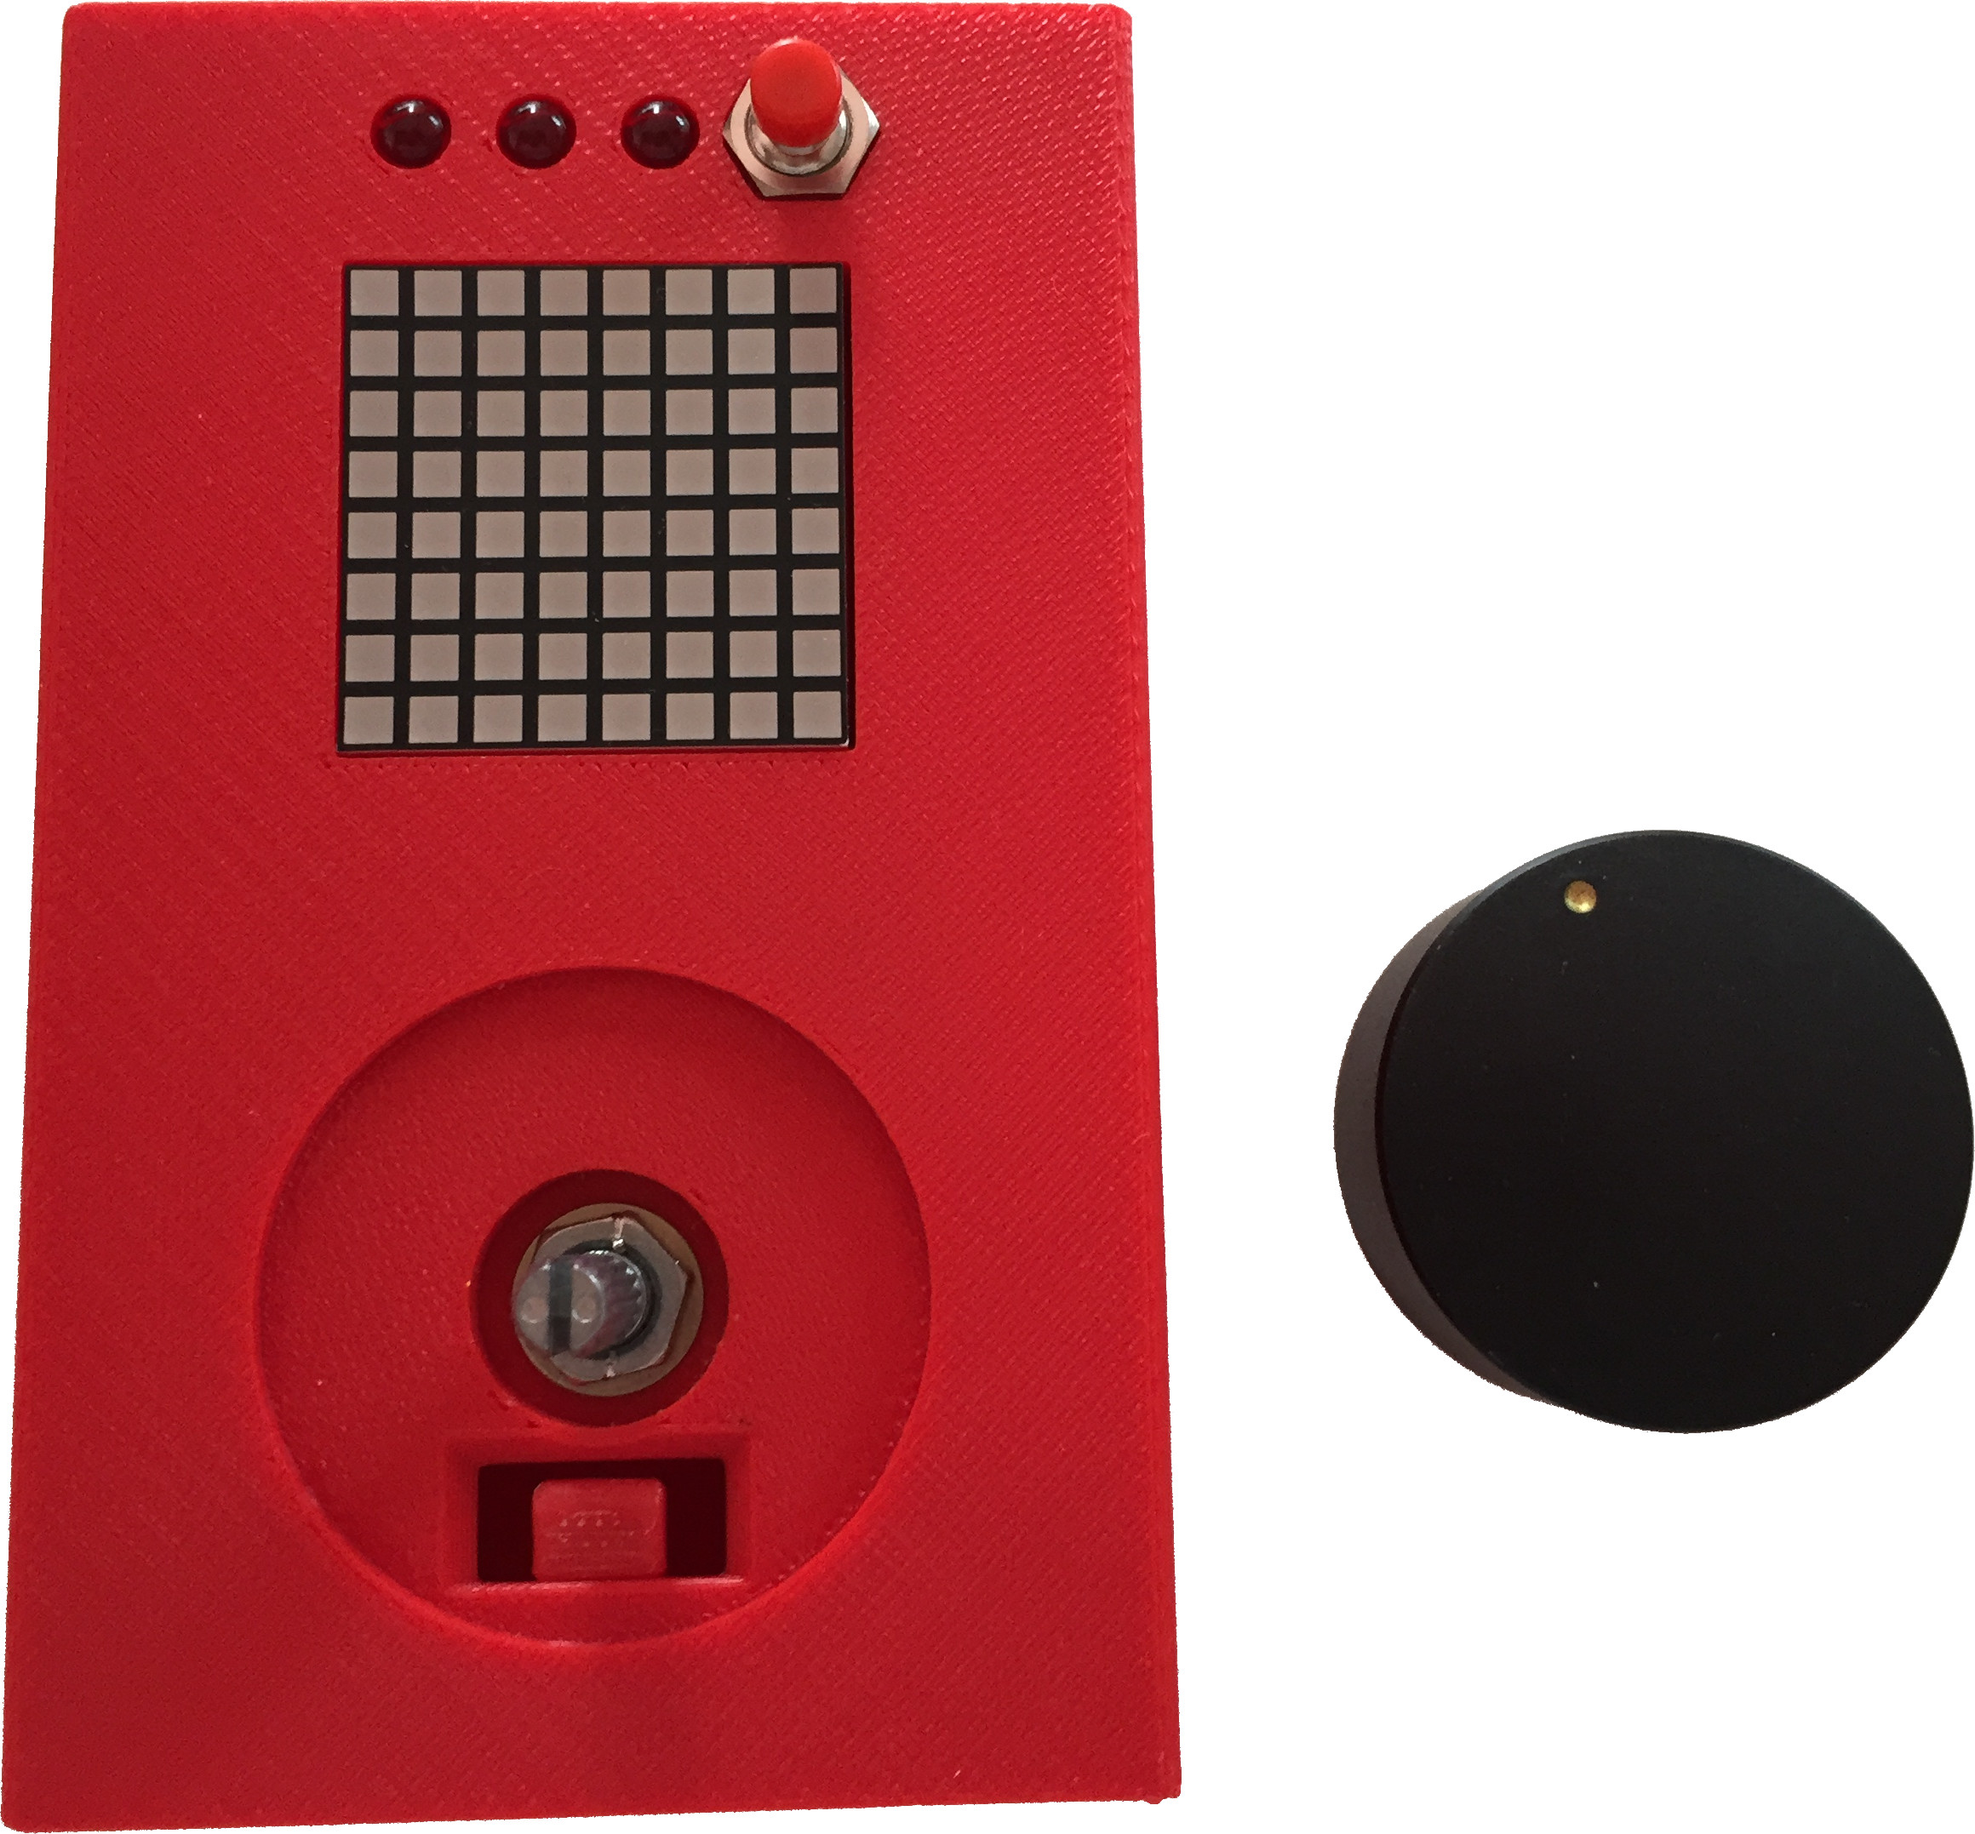
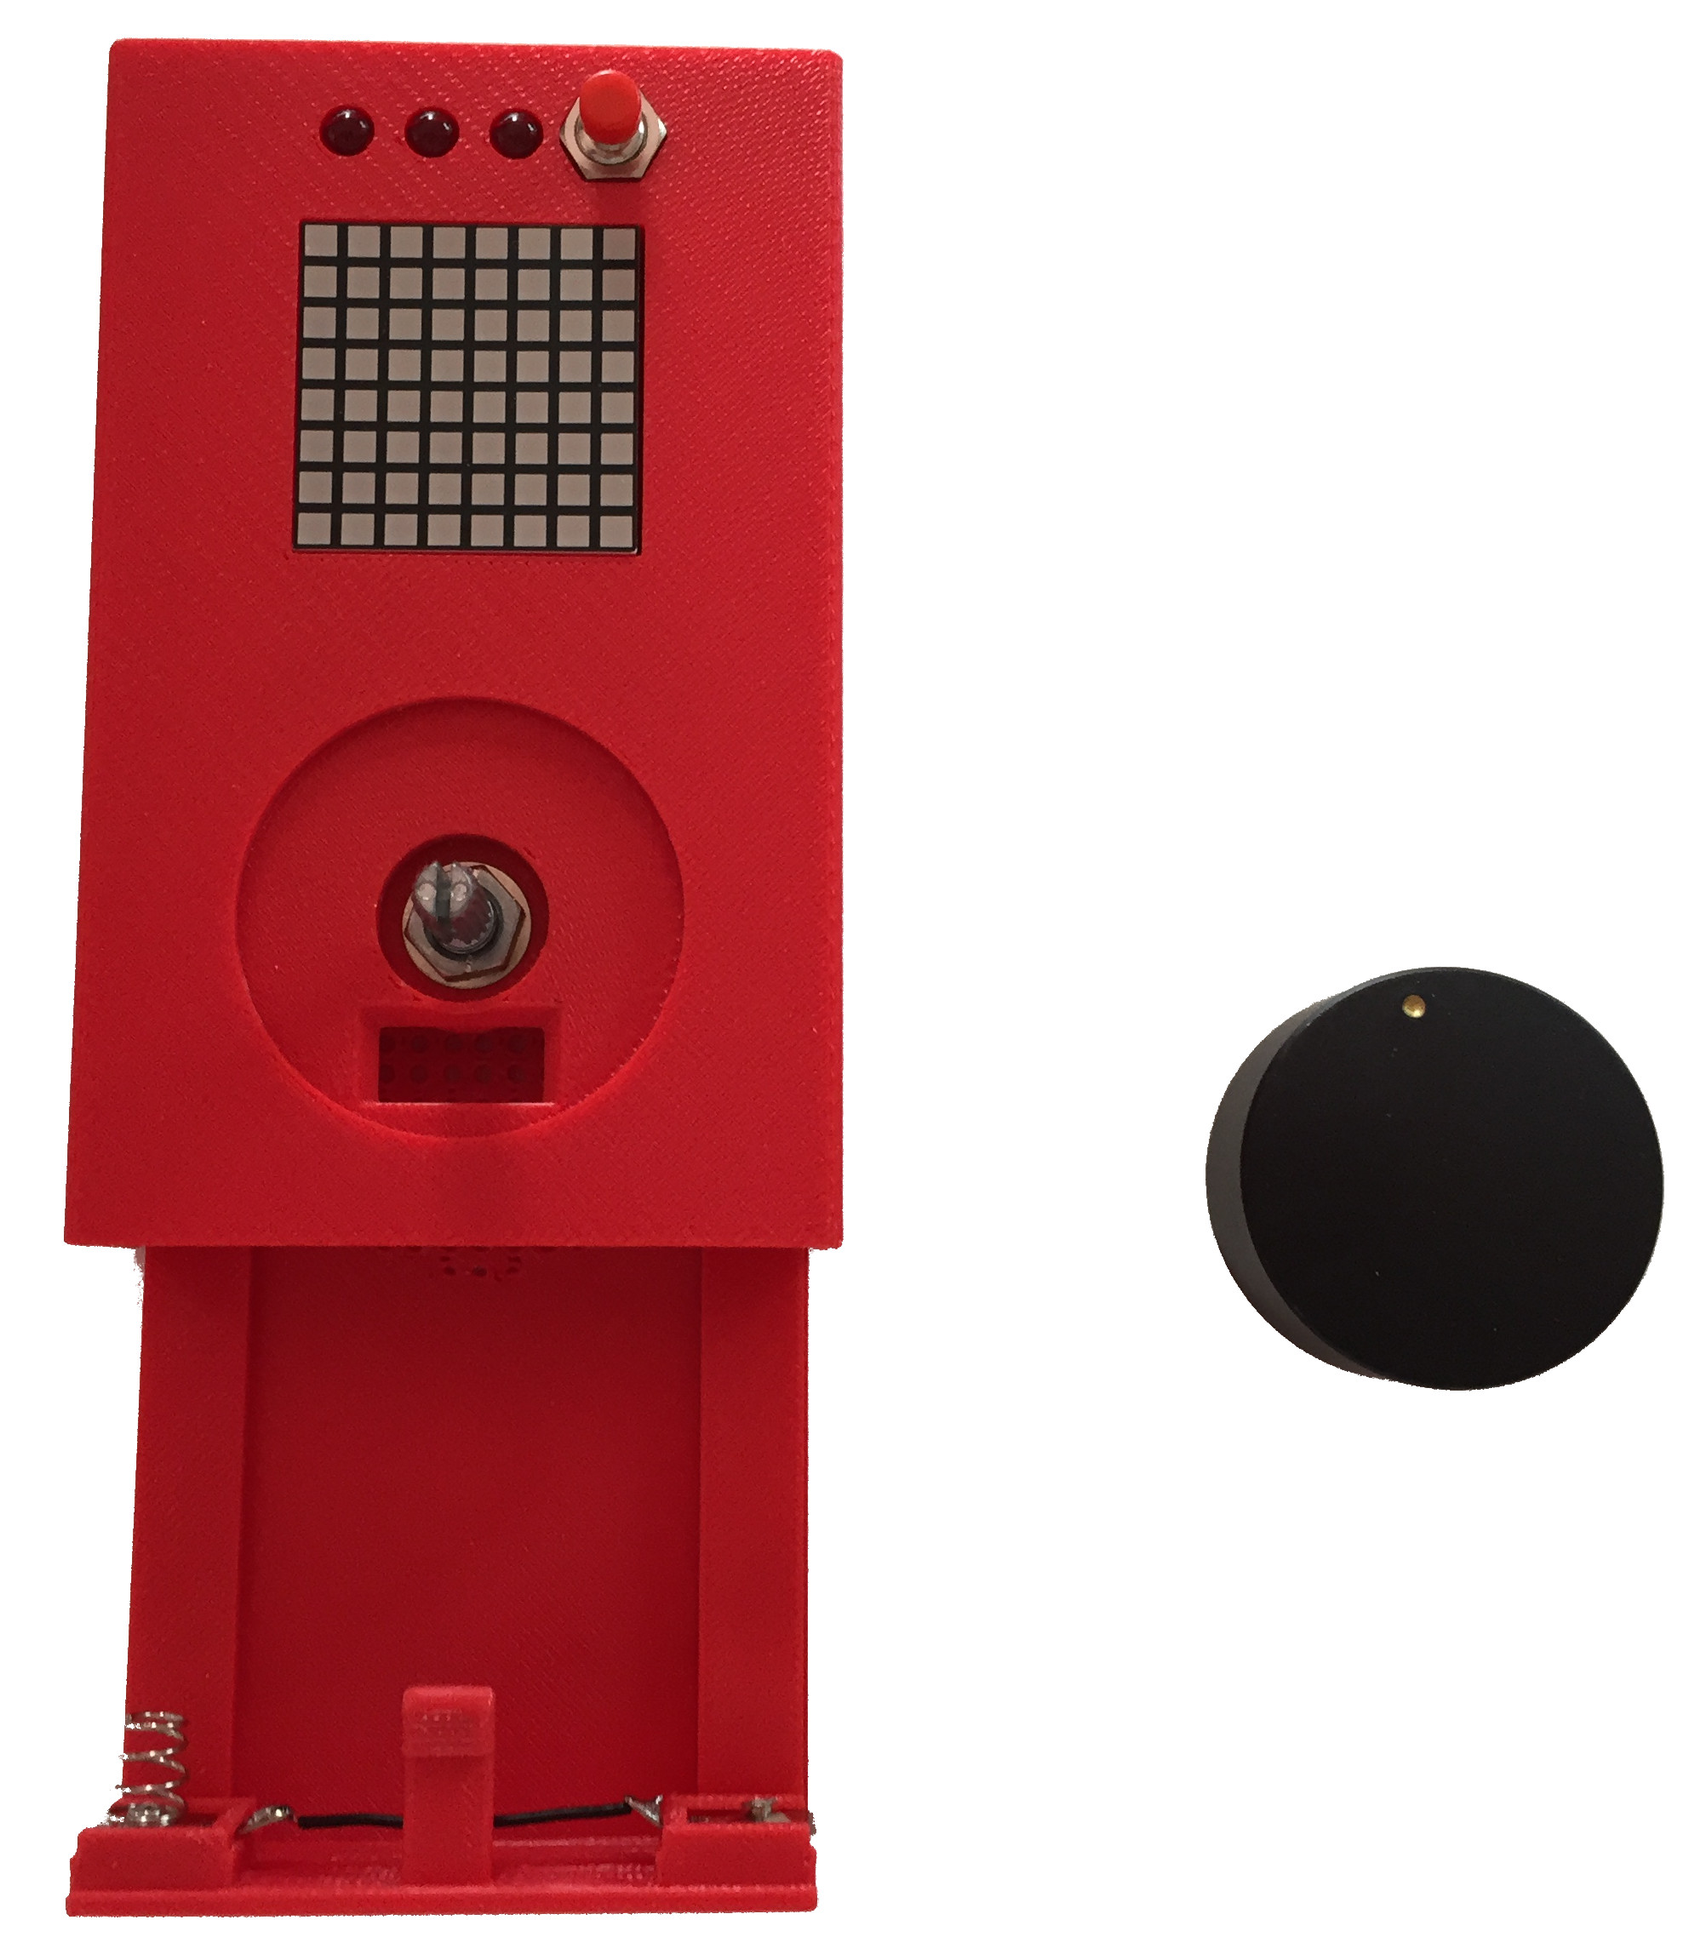
wip documentation and pages

diff --git a/_includes/gallery_show.html b/_includes/gallery_show.html
@@ -1,1 +1,1 @@
-{% for image in include.images %}<a href="{{ relative }}{{ page.imgfolder }}/{{ image.name }}" data-lightbox="{{ include.group }}" title="{{ image.text }}"><img src="{{ relative }}{{ page.imgfolder }}/{{ image.thumb }}" title="{{ image.text }}" {% if include.width == nil %}width="130px"{% else %}width="{{ include.width }}px"{% endif %} style="border: 0 0 0 0; margin: 10px 10px 10px 10px;"></a>{% endfor %}
+{% for image in include.images %}<a href="{{ relative }}{{ page.imgfolder }}/{{ image.name }}" data-lightbox="{{ include.group }}" title="{{ image.text }}"><img src="{{ relative }}{{ page.imgfolder }}/{{ image.thumb }}" title="{{ image.text }}" {% if include.width != nil %}width="{{ include.width }}px"{% endif %} {% if include.height != nil %}height="{{ include.height }}px"{% endif %} style="border: 0 0 0 0; margin: 10px 10px 10px 10px;"></a>{% endfor %}

diff --git a/doc/case.md b/doc/case.md
@@ -22,6 +22,37 @@ photos:
   - name: photo_case2.jpg
     thumb: thumb_case2.jpg
     text: TeleBall 3D Printed Case and Lid - Back
+readydevice:
+  - name: photo1.jpg
+    thumb: thumb1.jpg
+    text: TeleBall Front View
+  - name: photo2.jpg
+    thumb: thumb2.jpg
+    text: TeleBall Side View
+  - name: photo3.jpg
+    thumb: thumb3.jpg
+    text: TeleBall Top View
+  - name: photo4.jpg
+    thumb: thumb4.jpg
+    text: TeleBall Rear View
+  - name: photo5.jpg
+    thumb: thumb5.jpg
+    text: TeleBall Bottom View        
+  - name: photo6.jpg
+    thumb: thumb6.jpg
+    text: TeleBall Disassembly 1
+  - name: photo7.jpg
+    thumb: thumb7.jpg
+    text: TeleBall Disassembly 2
+  - name: photo8.jpg
+    thumb: thumb8.jpg
+    text: TeleBall Disassembly 3
+  - name: photo9.jpg
+    thumb: thumb9.jpg
+    text: TeleBall Disassembly 4
+  - name: photo10.jpg
+    thumb: thumb10.jpg
+    text: TeleBall Disassembly 5
 ---
 
 {% include gallery_init.html %}
@@ -36,13 +67,16 @@ Designing the Case: CAD
 We used it to design the TeleBall Case. The following gallery is showing you the
 case and the lid 3D rendered by FreeCad.
 
-{% include gallery_show.html images=page.cad_images group=1 %}
+{% include gallery_show.html images=page.cad_images width=130 group=1 %}
 
 The mechanism for keeping the case closed stable can be best understood when you
 have a look at the rightmost image (click to zoom): The lever shown there is
 clicking into place when being moved over the hole shown at the leftmost image
 while closing.
 
+Toggle *Thingiview* on [Thingiverse](http://www.thingiverse.com/thing:621294)
+to get a realtime interactive 3D view of the case and the lid: Click the blue
+"photos", then click on *Thingiview* and then use your mouse to zoom and rotate.
 
 Manufacturing the Case: 3D Printing
 -----------------------------------
@@ -54,22 +88,23 @@ are used to 3D print the TeleBall device consisting of the case and the lid.
     case_body_v2.stl
     case_lid_v2.stl
 
-Most online 3D printing shops are accepting `.cmb.gz` files, this is why added this
-package already for your convenience; it contains both, the case and the lid.
+Some online 3D printing shops are accepting convenient packaged `.cmb.gz` files,
+which are already containing the whole device. Others are accepting `.stl` files,
+where you are uploading and ordering the body (case) and the lid separately.
 Alternately, you can use FreeCad or other tools to create your own 3D Printing
 file package using the `.stl` files as sources.
+
+You can also download the files needed for 3D printing from
+[Thingiverse](http://www.thingiverse.com/thing:621294).
 
 3D Printed Case and Lid
 -----------------------
 
 The following photos show you, what you can expect back from your 3D printing shop.
 
-{% include gallery_show.html images=page.photos width=260 group=2 %}
+{% include gallery_show.html images=page.photos width=280 group=2 %}
 
 Ready Assembled Device
 ----------------------
 
-This is some sample Lorem Ipsum text. Wslk jfwkljeflwkejf welkjf w.
-This is some sample Lorem Ipsum text. Wslk jfwkljeflwkejf welkjf w.
-This is some sample Lorem Ipsum text. Wslk jfwkljeflwkejf welkjf w.
-This is some sample Lorem Ipsum text. Wslk jfwkljeflwkejf welkjf w.
+{% include gallery_show.html images=page.readydevice height=150 group=3 %}

diff --git a/doc/electronics.md b/doc/electronics.md
@@ -1,0 +1,43 @@
+---
+title: TeleBall - Electronics
+layout: default
+imgfolder: eagle
+pcb_image:
+  - name: pcb_large.jpg
+    thumb: pcb_small.jpg
+    text: TeleBall PCB Top (left) & Bottom (right)
+---
+
+{% include gallery_init.html %}
+
+TeleBall Electronics
+====================
+
+Schematics
+----------
+
+![Schematics Overview](eagle/circuit.png)
+Abbreviations:
+
+* BAT+ / BAT-: Battery+ and Battery- aka GND, directly wired via battery clips
+* +UB: 6V battery power *after* the on/off switch
+* ARDUINO: Microcontroller - see details below
+* SWITCH: TeleBall power switch / on/off switch
+* R5, R6, R7: 8.2k&#x2126; series resistor for LEDs
+
+Download [Detailed Schematics PDF](eagle/BreakOut-8x8-rev2-circuit.pdf).
+
+### Main parts
+
+* Microcontroller: 5V version of Arduino Nano 3.0 or compatible device ([Data Sheet](http://arduino.cc/de/Main/ArduinoBoardNano))
+* 8x8 LED Display: KWM-R30881CBB aka AdaFruit 1817 ([Data Sheet](http://www.adafruit.com/datasheets/1047datasheet.pdf))
+* LED Display Driver: MAX7221    ([Data Sheet](http://datasheets.maximintegrated.com/en/ds/MAX7219-MAX7221.pdf))
+* Radio: nRF24L01+ on Arduino friendly breakout board ([Data Sheet](http://www.nordicsemi.com/eng/content/download/2726/34069/file/nRF24L01P_Product_Specification_1_0.pdf))
+
+
+
+
+Custom Printed Circuit Board (PCB)
+----------------------------------
+
+{% include gallery_show.html images=page.pcb_image group=2 %}

diff --git a/index.md b/index.md
@@ -116,4 +116,6 @@ If you have any questions or comments, we are happy to hear from you. Email us a
 * The great [DuinoKit](http://www.duinokit.com) was sy2002's original inspiration to
   create the [BreakOut Tutorial](http://duinokit.com/ShowAndTell/viewtopic.php?f=4&t=14),
   which itself turned into the origin of TeleBall.
-* The project's web page theme is based on [broccolini / dinky](https://github.com/broccolini/dinky).
+* The project's web and documentation page theme is based on
+  [broccolini / dinky](https://github.com/broccolini/dinky)
+  and uses [lightbox2](http://lokeshdhakar.com/projects/lightbox2)
